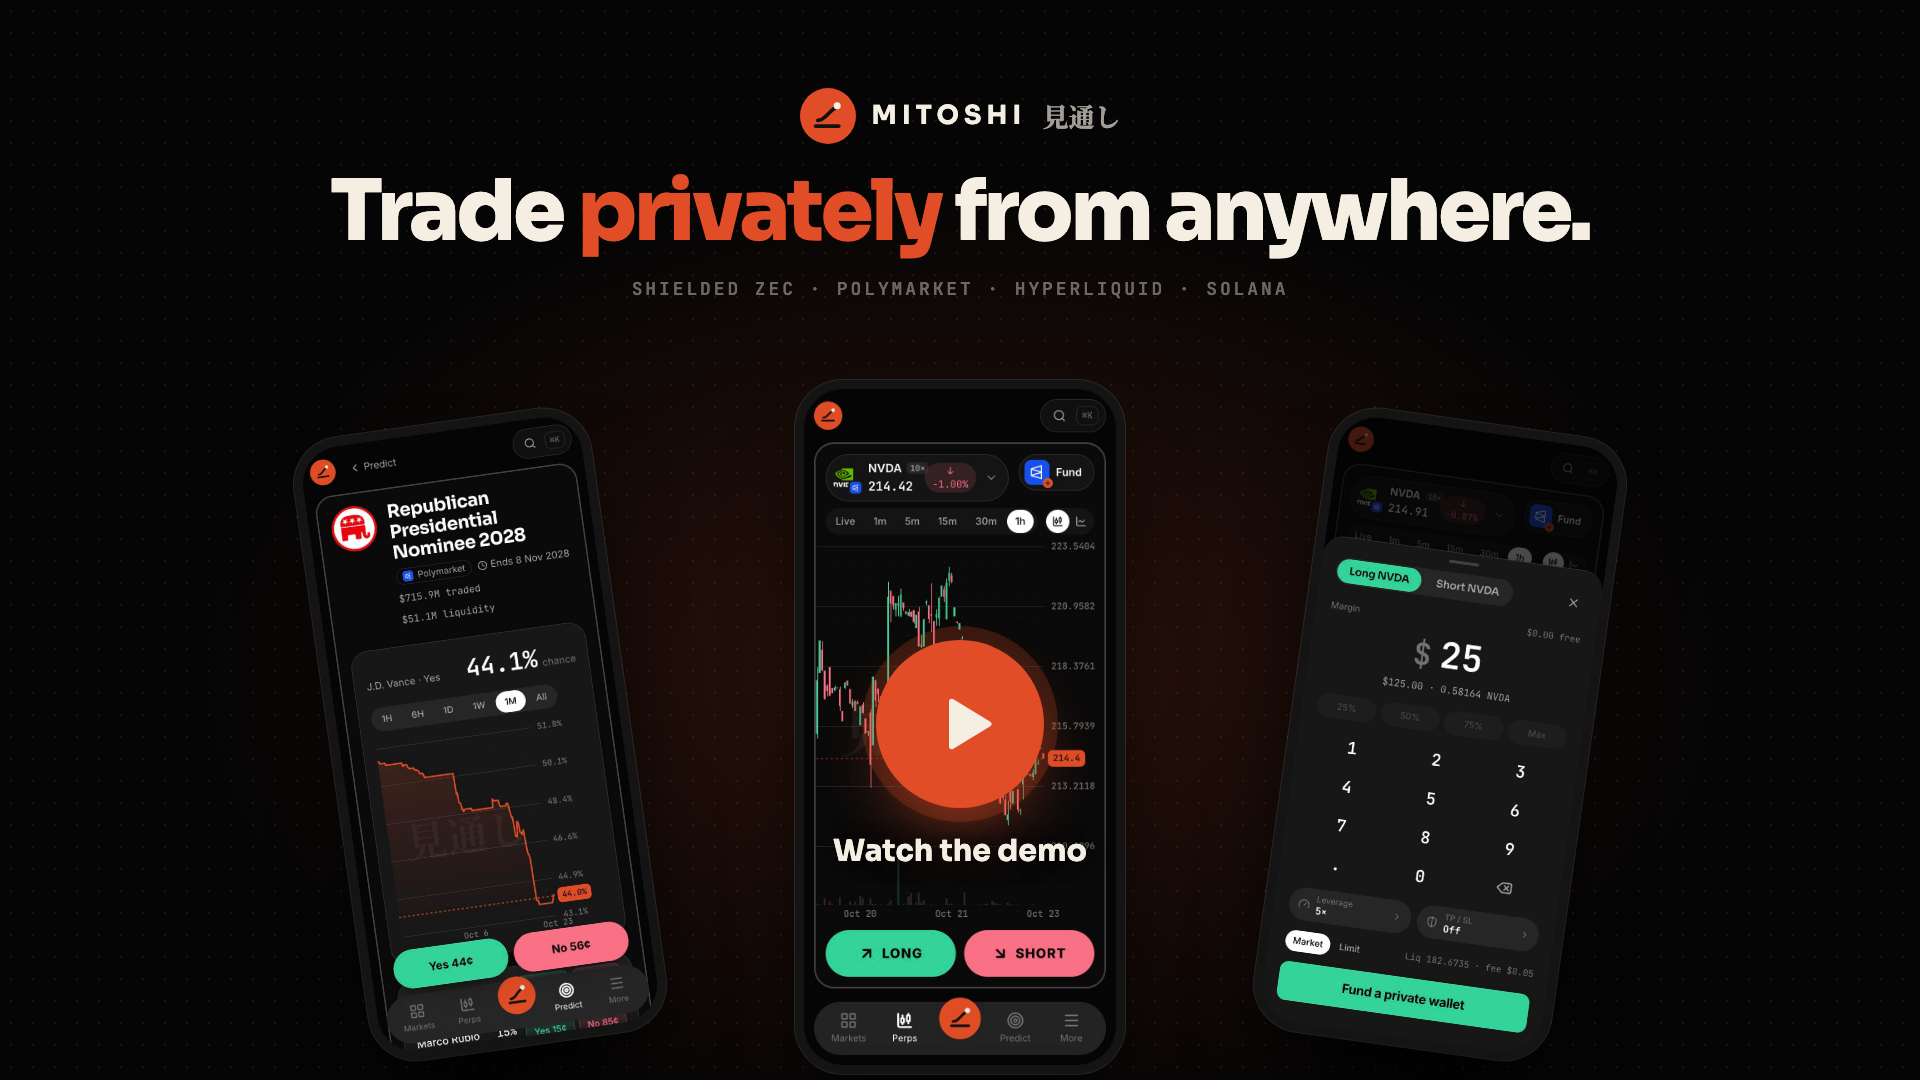
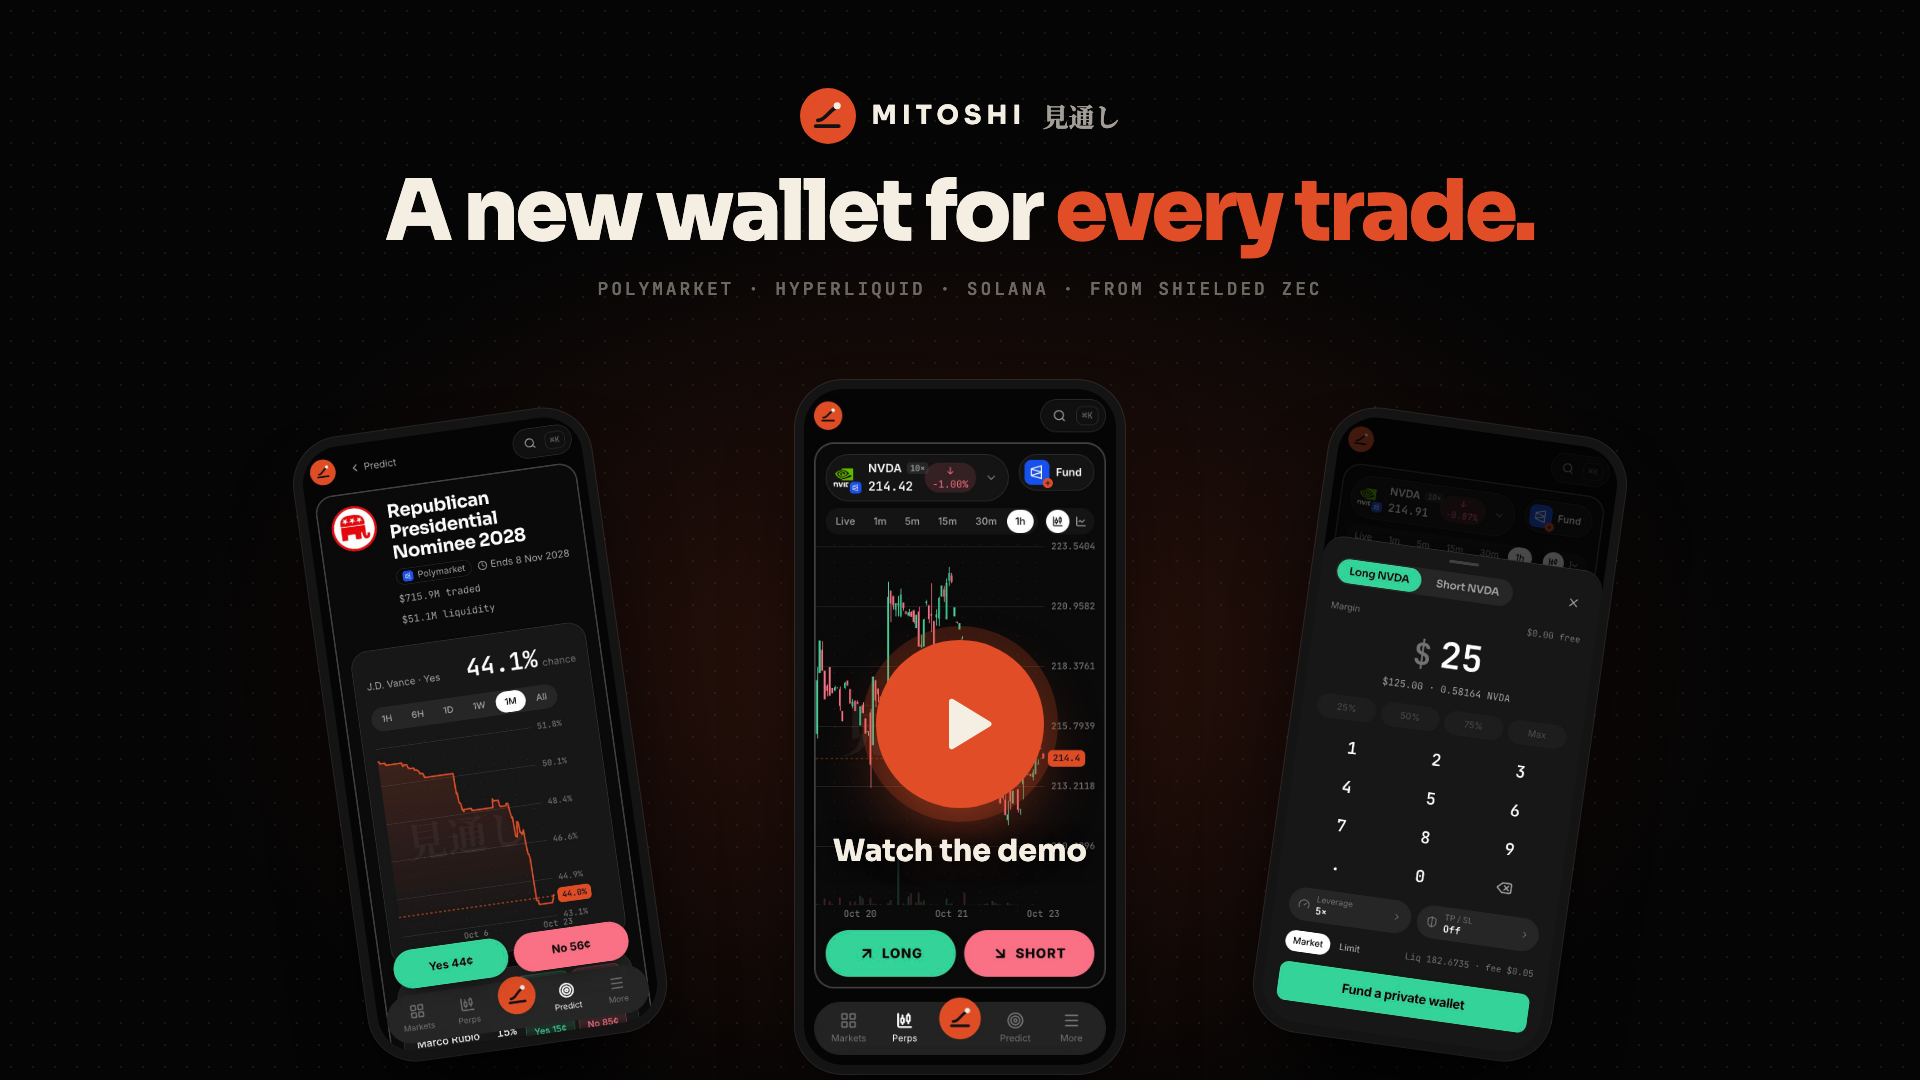
Hero: name the venues and the shielded ZEC, then the payoff a judge can check
Headline: Trade Polymarket and Hyperliquid from shielded ZEC.
Subline: Each position opens from a brand-new wallet funded through NEAR
Intents: copy traders find one trade and no history.
Motto: A new wallet for every trade.

"Trade privately from anywhere" told a stranger neither what is traded
nor where, a rival could sign it, and "from anywhere" read as getting
around venue geoblocks. The pair now runs through the landing hero,
metadata and link preview, the banner, the demo cover and still, the
README header, package.json and the docs overview. The markets page
drops its extra line.

Changed region(s): [[0.1562, 0.1528, 0.8438, 0.275]]

diff --git a/.github/assets/source/banner.html b/.github/assets/source/banner.html
@@ -36,7 +36,7 @@
   .seal svg { width: 58%; }
   .word { font: 700 30px/1 Sora, sans-serif; letter-spacing: 0.2em; }
   .stamp { font: 700 30px/1 "Mitoshi Serif", serif; color: var(--ink-2); }
-  h1 { font: 800 96px/1 Sora, sans-serif; letter-spacing: -0.035em; }
+  h1 { font: 800 76px/1.02 Sora, sans-serif; letter-spacing: -0.035em; }
   h1 em { font-style: normal; color: var(--accent); }
   .sub { font: 400 29px/1.42 Inter, sans-serif; color: var(--ink-2); max-width: 720px; text-wrap: balance; }
   .venues { display: flex; align-items: center; gap: 14px; flex-wrap: wrap; }
@@ -72,8 +72,8 @@
       <span class="word">MITOSHI</span>
       <span class="stamp">見通し</span>
     </div>
-    <h1>Trade <em>privately</em><br />from anywhere.</h1>
-    <p class="sub">Your balance stays shielded in Zcash. Every trade opens from a <span style="white-space:nowrap">brand-new</span> wallet nobody can link to you.</p>
+    <h1>Trade Polymarket<br />and Hyperliquid<br /><em>from shielded ZEC.</em></h1>
+    <p class="sub">Each position opens from a <span style="white-space:nowrap">brand-new</span> wallet funded through NEAR Intents: copy traders find one trade and no history.</p>
     <div class="venues">
       <span class="venue"><img src="../../../apps/web/public/marks/venue-polymarket.svg" alt="" />Polymarket</span>
       <span class="venue"><img src="../../../apps/web/public/marks/venue-hyperliquid.svg" alt="" />Hyperliquid</span>

diff --git a/apps/web/src/app/layout.tsx b/apps/web/src/app/layout.tsx
@@ -4,13 +4,18 @@ import { THEME_INIT } from "@/features/theme/theme";
 import { fontVariables } from "@/lib/fonts";
 import "./globals.css";
 
-const TITLE = "Mitoshi 見通し · Trade privately from anywhere";
+const TITLE = "Mitoshi 見通し · Trade Polymarket and Hyperliquid from shielded ZEC";
 const DESCRIPTION =
-  "Trade privately from anywhere. Your balance stays shielded in Zcash. Every trade opens from a brand-new wallet nobody can link to you.";
+  "Each position opens from a brand-new wallet funded through NEAR Intents: copy traders find one trade and no history. US stocks, gold and Solana tokens too.";
 /** The link preview (public/og.png), made from the README banner: .github/assets/source/banner.html#og. */
 const OG_WIDTH = 1200;
 const OG_HEIGHT = 630;
-const OG_IMAGE = { url: "/og.png", width: OG_WIDTH, height: OG_HEIGHT, alt: "Mitoshi: trade privately from anywhere" };
+const OG_IMAGE = {
+  url: "/og.png",
+  width: OG_WIDTH,
+  height: OG_HEIGHT,
+  alt: "Mitoshi: trade Polymarket and Hyperliquid from shielded ZEC",
+};
 
 export const metadata: Metadata = {
   metadataBase: new URL("https://mitoshi.xyz"),

diff --git a/apps/web/src/app/docs/page.tsx b/apps/web/src/app/docs/page.tsx
@@ -4,11 +4,11 @@ import { H2, Lead, List, P, Steps, Title } from "@/features/docs/prose";
 export default function DocsOverview() {
   return (
     <>
-      <Title kicker="Mitoshi docs">Trade privately from anywhere</Title>
+      <Title kicker="Mitoshi docs">Trade Polymarket and Hyperliquid from shielded ZEC</Title>
       <Lead>
-        Mitoshi is a private trading app. Your balance stays shielded in Zcash, and every position you open on
-        Polymarket, Hyperliquid or Solana comes from a brand-new wallet nobody can link to you. When you close, the
-        money comes back to shielded ZEC.
+        Your balance stays shielded in Zcash. Every position you open on Polymarket, Polymarket Perps, Hyperliquid or
+        Solana comes from a brand-new wallet funded through NEAR Intents, so copy traders find one trade and no history.
+        When you close, the money comes back to shielded ZEC.
       </Lead>
       <H2>Why it exists</H2>
       <P>

diff --git a/apps/web/src/features/landing/copy.ts b/apps/web/src/features/landing/copy.ts
@@ -11,9 +11,9 @@ export const LANDING = {
   },
   hero: {
     chip: "Live on Zcash mainnet",
-    title: ["Trade privately", "from"],
-    accent: "anywhere.",
-    line: "Your balance stays shielded in Zcash. Every trade opens from a brand-new wallet nobody can link to you.",
+    title: ["Trade Polymarket", "and Hyperliquid"],
+    accent: "from shielded ZEC.",
+    line: "Each position opens from a brand-new wallet funded through NEAR Intents: copy traders find one trade and no history.",
     open: "Open Mitoshi",
     how: "How it works",
     small: "No account · no sign-up · your keys stay in this browser",

diff --git a/apps/web/src/features/landing/landing.tsx b/apps/web/src/features/landing/landing.tsx
@@ -30,9 +30,13 @@ function Hero() {
             <VenueMark venue="near" size={16} />
           </span>
           <h1 id="lp-h1" className="lp-h1">
-            <span className="block">{L.hero.title[0]}</span>
+            {L.hero.title.map((line) => (
+              <span key={line} className="block">
+                {line}
+              </span>
+            ))}
             <span className="block">
-              {L.hero.title[1]} <em>{L.hero.accent}</em>
+              <em>{L.hero.accent}</em>
             </span>
           </h1>
           <p className="lp-line max-w-[34rem]">{L.hero.line}</p>

diff --git a/apps/web/src/features/landing/hero-visual.tsx b/apps/web/src/features/landing/hero-visual.tsx
@@ -9,7 +9,7 @@ import { DRIVERS, useLiveStats, usePerpMarkets } from "../perps/hooks";
 import type { PerpVenue } from "../perps/model";
 
 const MASK_DOTS = ["a", "b", "c", "d"];
-/** "From anywhere": the hero walks through a coin, a stock and gold, each on its own venue. */
+/** The hero walks through a coin, a stock and gold, each on its own venue. */
 const SHOWN: readonly { venue: PerpVenue; id: string; label: string }[] = [
   { venue: "hyperliquid", id: "BTC", label: "BTC-PERP · Hyperliquid" },
   { venue: "pmperps", id: "NVDA-USD", label: "NVIDIA · Polymarket Perps" },

diff --git a/.github/assets/source/demo-cover.html b/.github/assets/source/demo-cover.html
@@ -59,8 +59,8 @@
       <span class="word">MITOSHI</span>
       <span class="stamp">見通し</span>
     </div>
-    <h1>Trade <em>privately</em> from anywhere.</h1>
-    <p class="tag">Shielded ZEC · Polymarket · Hyperliquid · Solana</p>
+    <h1>A new wallet for <em>every trade.</em></h1>
+    <p class="tag">Polymarket · Hyperliquid · Solana · from shielded ZEC</p>
   </section>
 
   <div class="phone p1"><img src="../../../apps/web/public/captures/event.jpg" alt="" /></div>

diff --git a/apps/web/src/features/markets/markets-view.tsx b/apps/web/src/features/markets/markets-view.tsx
@@ -56,10 +56,7 @@ export function MarketsView() {
 
   return (
     <div className="flex flex-col gap-10">
-      <div className="flex flex-col gap-1">
-        <h1 className="type-headline-lg">Markets</h1>
-        <p className="text-ink-2">Trade privately from anywhere.</p>
-      </div>
+      <h1 className="type-headline-lg">Markets</h1>
       <MarketsHero />
 
       <section className="flex flex-col gap-4">

diff --git a/apps/web/src/app/demo/page.tsx b/apps/web/src/app/demo/page.tsx
@@ -3,7 +3,7 @@ import { Demo } from "@/features/landing/demo";
 
 export const metadata: Metadata = {
   title: "Demo · Mitoshi 見通し",
-  description: "Mitoshi in two minutes: trade privately from anywhere, from shielded ZEC.",
+  description: "Mitoshi in two minutes: Polymarket and Hyperliquid from shielded ZEC, a new wallet for every trade.",
 };
 
 export default function DemoPage() {

diff --git a/README.md b/README.md
@@ -5,7 +5,7 @@
 </p>
 
 <h1 align="center">Mitoshi · 見通し</h1>
-<p align="center">Trade privately from anywhere.<br/>Your balance stays shielded in Zcash. Every trade opens from a brand-new wallet nobody can link to you.</p>
+<p align="center"><b>A new wallet for every trade.</b><br/>Trade Polymarket and Hyperliquid from shielded ZEC: each position opens from a brand-new wallet funded through NEAR Intents, so copy traders find one trade and no history.</p>
 
 <p align="center">
   <a href="https://mitoshi.xyz"><b>Open Mitoshi</b></a>
